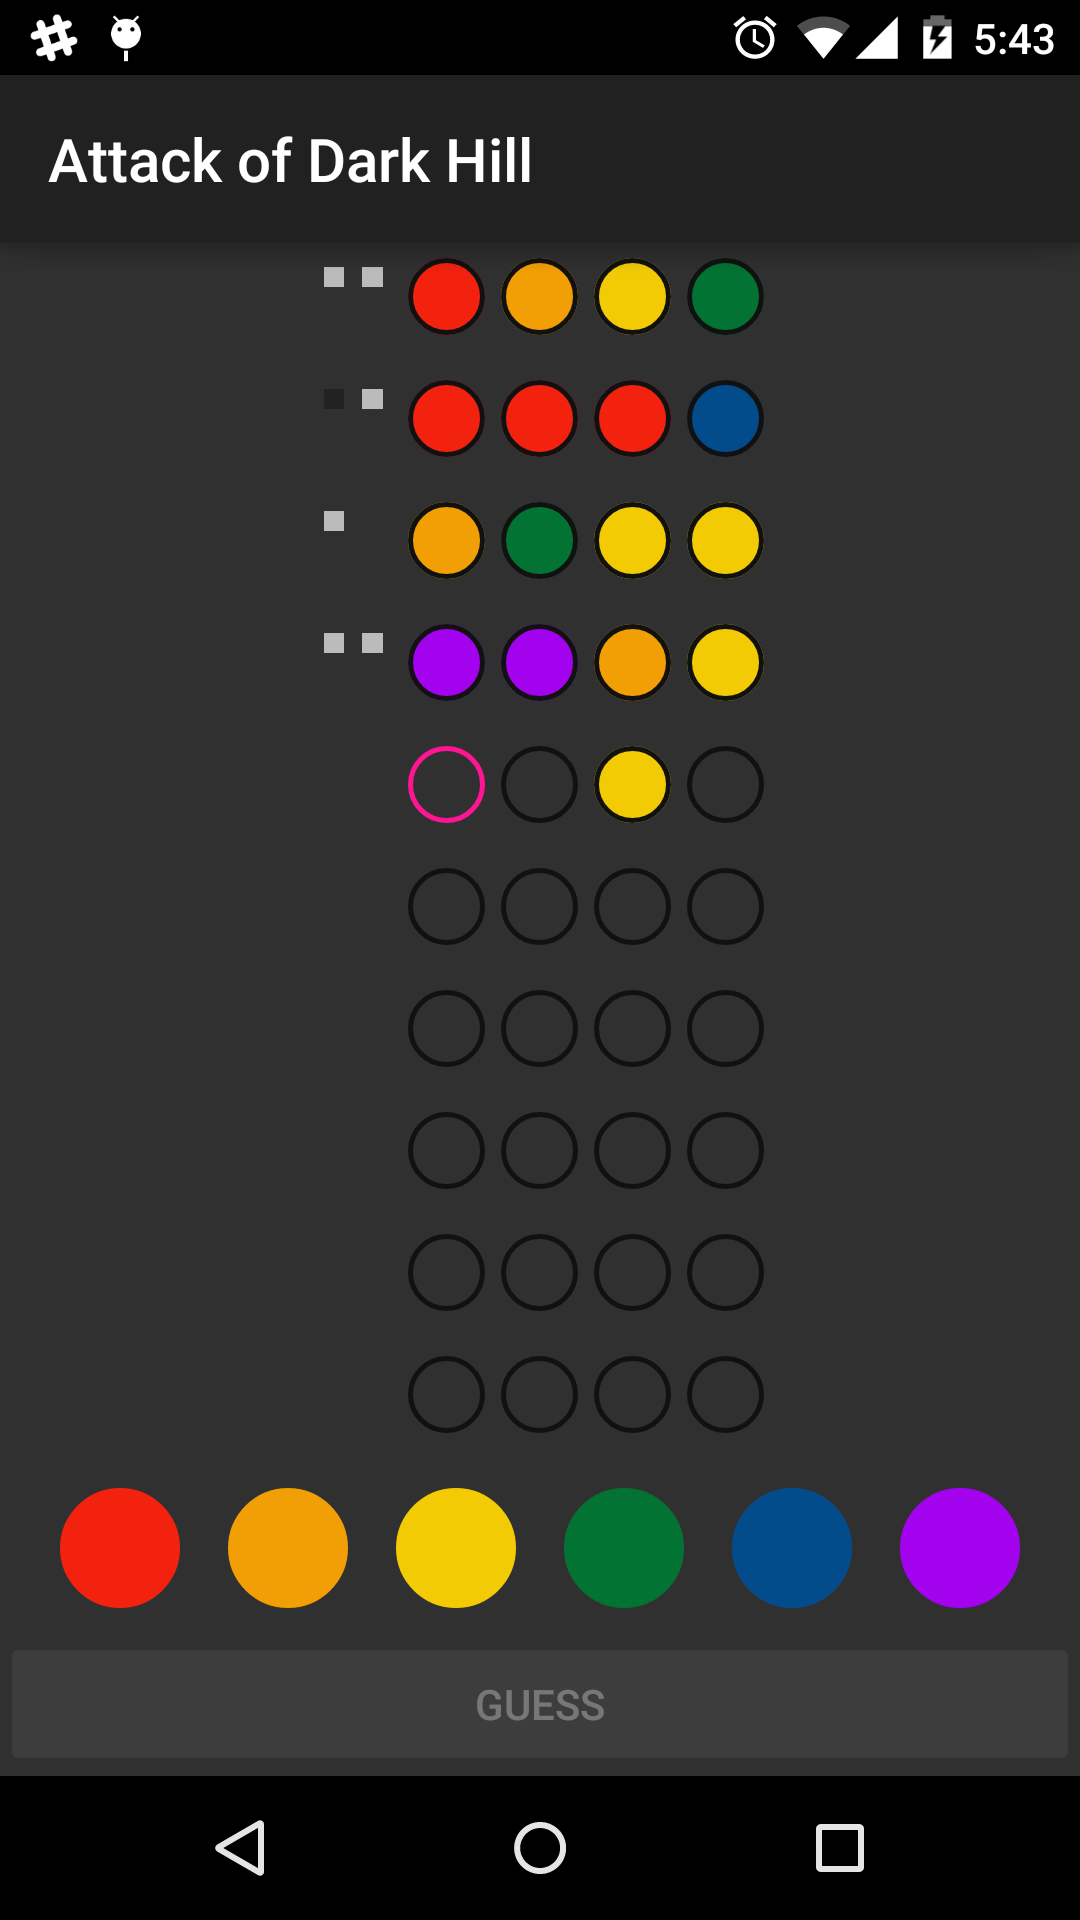
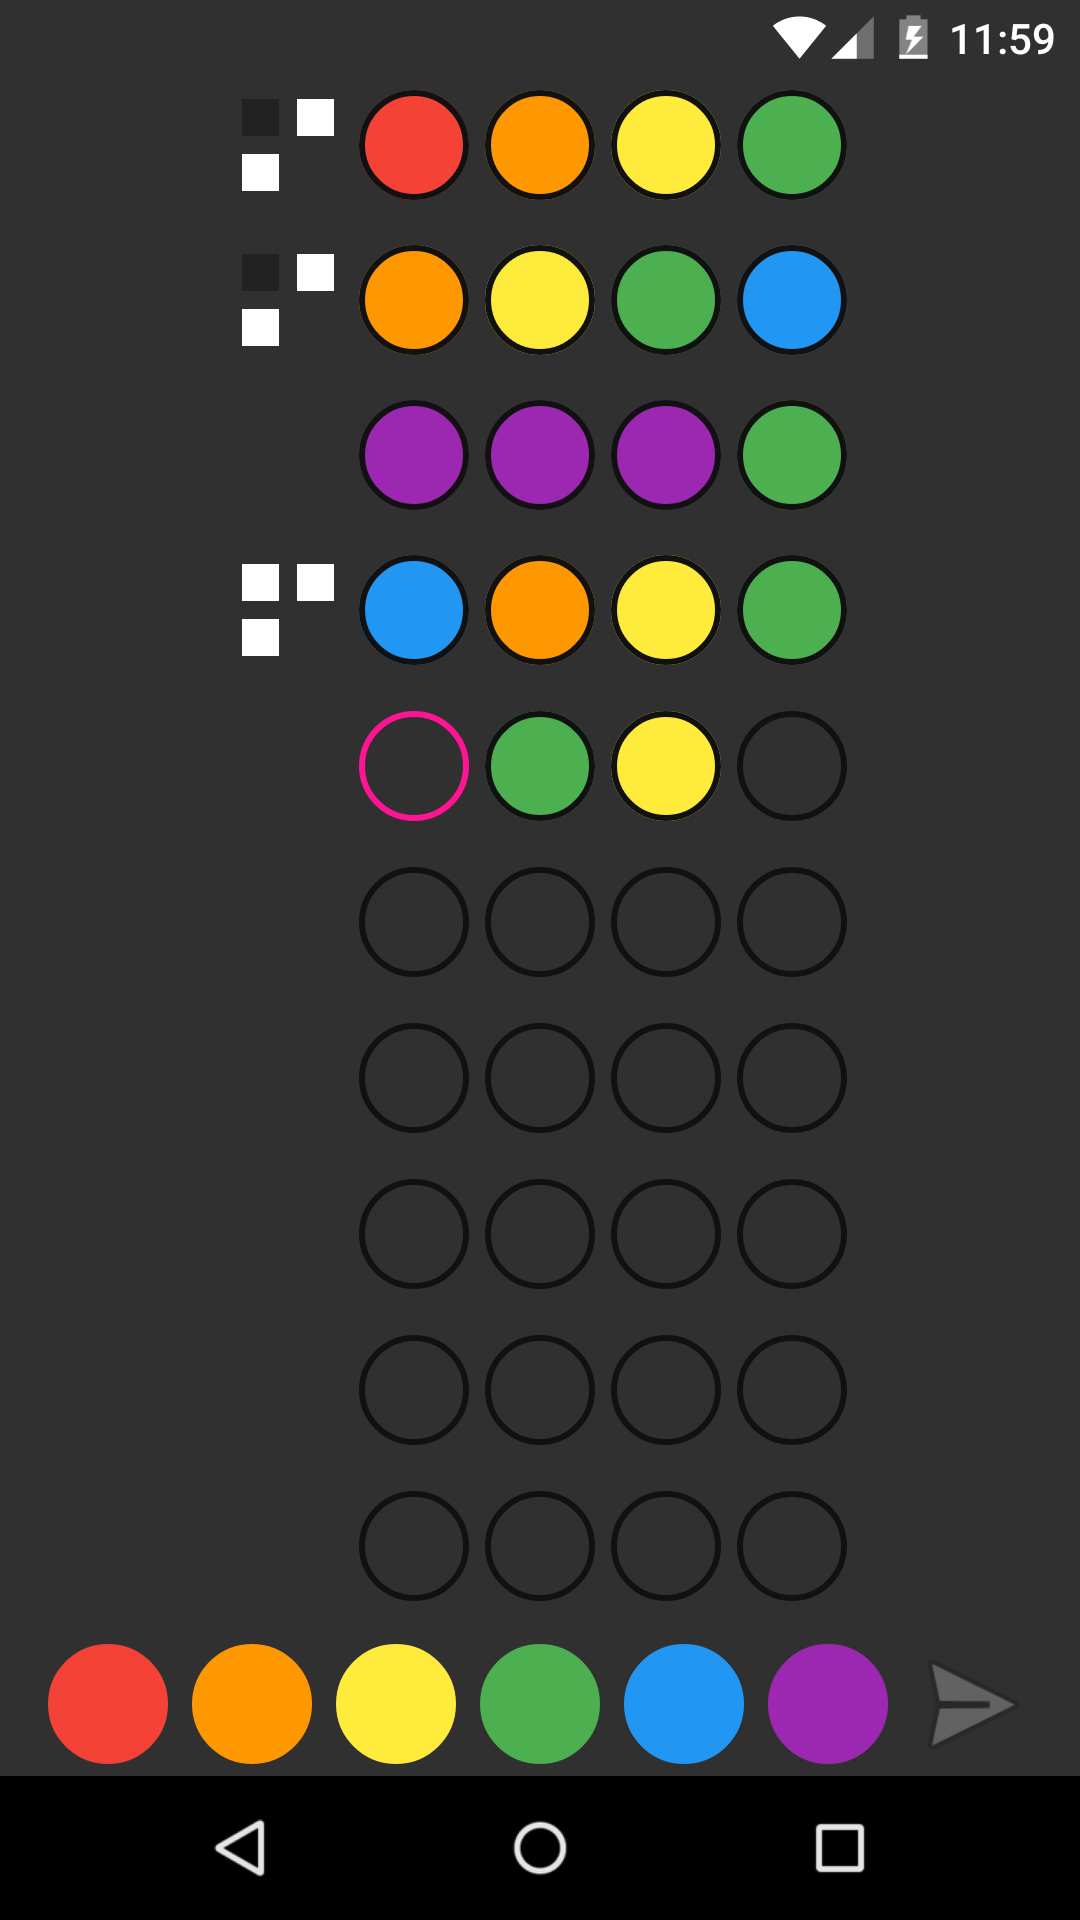
bump to v0.5

diff --git a/CHANGELOG.md b/CHANGELOG.md
@@ -1,3 +1,10 @@
+v0.5
+---
+
+- User can change brightness with volume buttons
+- Updated game control layout
+
+
 v0.4
 ----
 
